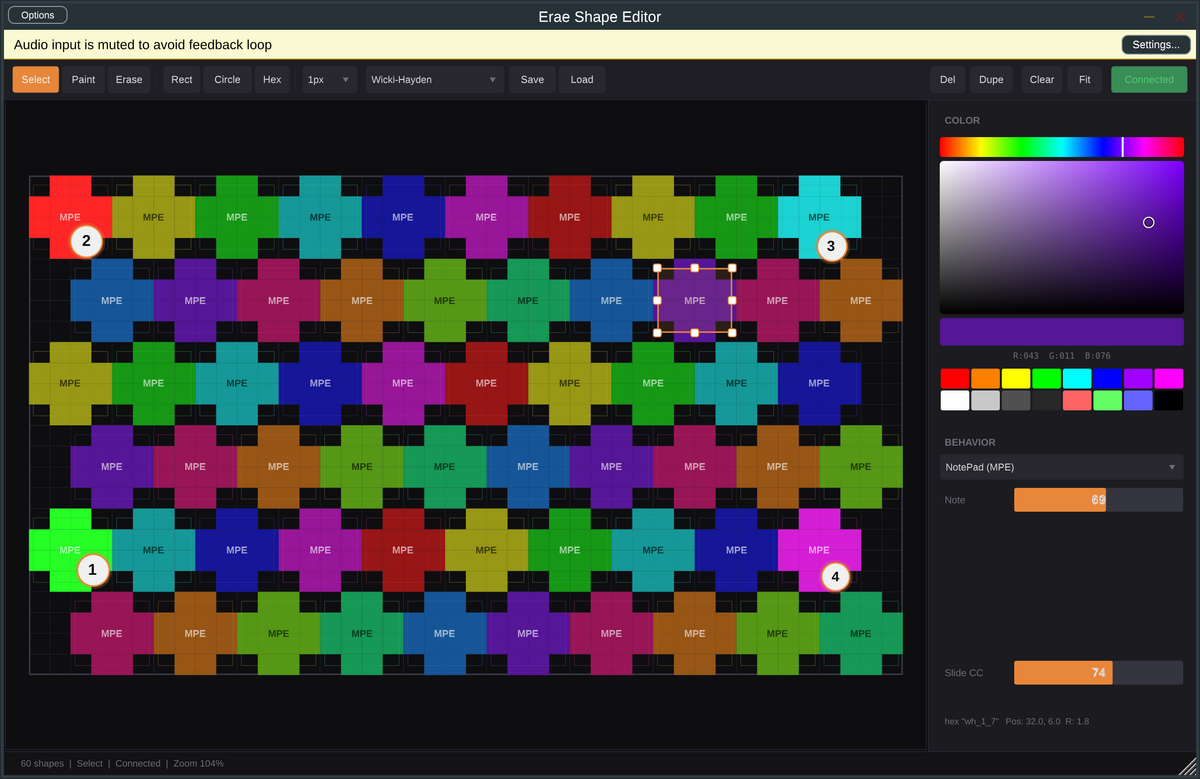
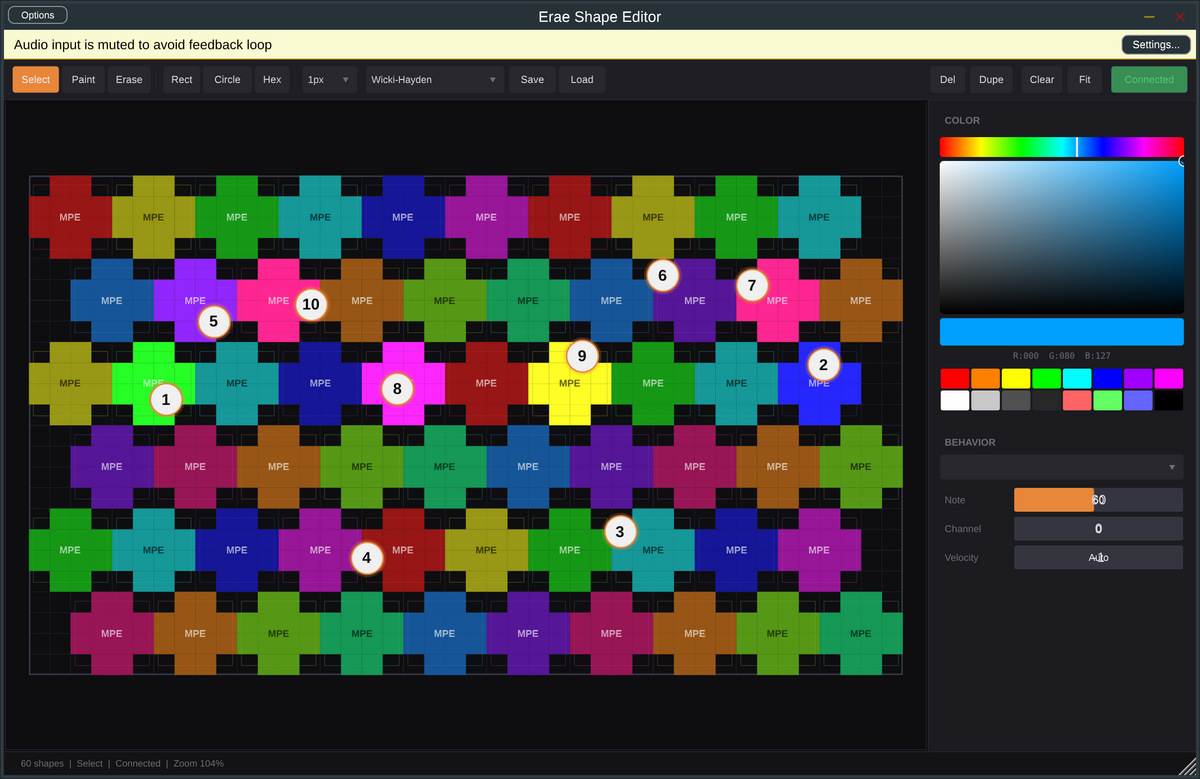
Add 14-bit hi-res CC mode and auto-assign unique notes/CCs
14-bit CC: Fader and XY Controller behaviors can now send paired
MSB+LSB CC messages (CC N + CC N+32) for 16384 steps of resolution.
Toggle "Hi-Res 14b" in the property panel. CC range clamps to 0-31
when enabled.

Auto-assign: New shapes automatically get unique note/CC numbers so
they don't clash. Duplicated shapes also get the next available value.
Switching behavior type auto-assigns an unused note or CC.

Restores the 10-finger multitouch screenshot.

diff --git a/Source/UI/PropertyPanel.cpp b/Source/UI/PropertyPanel.cpp
@@ -23,7 +23,8 @@ static void styleSlider(juce::Slider& slider, double min, double max, double def
     slider.setColour(juce::Slider::textBoxTextColourId, Theme::Colors::Text);
 }
 
-PropertyPanel::PropertyPanel()
+PropertyPanel::PropertyPanel(Layout& layout)
+    : layout_(layout)
 {
     styleLabel(behaviorLabel_, true);
     addAndMakeVisible(behaviorLabel_);
@@ -87,6 +88,12 @@ PropertyPanel::PropertyPanel()
     horizToggle_.addListener(this);
     addAndMakeVisible(horizLabel_);
     addAndMakeVisible(horizToggle_);
+
+    // Hi-Res 14-bit toggle (for Fader and XY Controller)
+    styleLabel(highresLabel_);
+    highresToggle_.addListener(this);
+    addAndMakeVisible(highresLabel_);
+    addAndMakeVisible(highresToggle_);
 
     // Slide CC slider (0-127, default 74 for MPE Y-axis)
     styleLabel(slideCCLabel_);
@@ -179,6 +186,14 @@ void PropertyPanel::resized()
         area.removeFromTop(3);
     }
 
+    // Hi-Res 14-bit toggle row
+    {
+        auto row = area.removeFromTop(rowH);
+        highresLabel_.setBounds(row.removeFromLeft(labelW));
+        highresToggle_.setBounds(row.removeFromLeft(rowH));
+        area.removeFromTop(3);
+    }
+
     // MPE hint
     mpeHint_.setBounds(area.removeFromTop(16));
     area.removeFromTop(gap + 2);
@@ -239,6 +254,13 @@ void PropertyPanel::loadShape(Shape* shape)
     ccYSlider_.setValue(getP("cc_y", 2), juce::dontSendNotification);
     slideCCSlider_.setValue(getP("slide_cc", 74), juce::dontSendNotification);
     horizToggle_.setToggleState(getPBool("horizontal", false), juce::dontSendNotification);
+    bool hr = getPBool("highres", false);
+    highresToggle_.setToggleState(hr, juce::dontSendNotification);
+    // Set CC slider ranges based on hi-res state
+    double maxCC = hr ? 31.0 : 127.0;
+    ccSlider_.setRange(0, maxCC, 1.0);
+    ccXSlider_.setRange(0, maxCC, 1.0);
+    ccYSlider_.setRange(0, maxCC, 1.0);
 
     // Visual style
     auto vstyle = visualStyleFromString(shape->visualStyle);
@@ -285,6 +307,22 @@ void PropertyPanel::comboBoxChanged(juce::ComboBox* box)
             default: return;
         }
         currentShape_->behavior = behaviorToString(btype);
+
+        // Auto-assign unique note/CC for the new behavior type
+        if (btype == BehaviorType::Trigger || btype == BehaviorType::Momentary || btype == BehaviorType::NotePad) {
+            int note = layout_.nextAvailableNote(60);
+            noteSlider_.setValue(note, juce::dontSendNotification);
+        }
+        if (btype == BehaviorType::Fader) {
+            int cc = layout_.nextAvailableCC(1);
+            ccSlider_.setValue(cc, juce::dontSendNotification);
+        }
+        if (btype == BehaviorType::XYController) {
+            int ccX = layout_.nextAvailableCC(1);
+            ccXSlider_.setValue(ccX, juce::dontSendNotification);
+            int ccY = layout_.nextAvailableCC(ccX + 1);
+            ccYSlider_.setValue(ccY, juce::dontSendNotification);
+        }
     }
     else if (box == &visualBox_) {
         int id = visualBox_.getSelectedId();
@@ -315,9 +353,18 @@ void PropertyPanel::sliderValueChanged(juce::Slider*)
     notifyListeners();
 }
 
-void PropertyPanel::buttonClicked(juce::Button*)
+void PropertyPanel::buttonClicked(juce::Button* button)
 {
     if (loading_ || !currentShape_) return;
+
+    // When hi-res toggled, update CC slider ranges (0-31 for 14-bit, 0-127 for 7-bit)
+    if (button == &highresToggle_) {
+        double maxCC = highresToggle_.getToggleState() ? 31.0 : 127.0;
+        ccSlider_.setRange(0, maxCC, 1.0);
+        ccXSlider_.setRange(0, maxCC, 1.0);
+        ccYSlider_.setRange(0, maxCC, 1.0);
+    }
+
     writeParamsToShape();
     notifyListeners();
 }
@@ -332,6 +379,7 @@ void PropertyPanel::updateVisibility()
     bool showCC       = (btype == BehaviorType::Fader);
     bool showCCXY     = (btype == BehaviorType::XYController);
     bool showHoriz    = (btype == BehaviorType::Fader);
+    bool showHighres  = (btype == BehaviorType::Fader || btype == BehaviorType::XYController);
     bool showSlideCC  = (btype == BehaviorType::NotePad);
     bool showMPEHint  = (btype == BehaviorType::NotePad);
 
@@ -349,6 +397,8 @@ void PropertyPanel::updateVisibility()
     ccYSlider_.setVisible(showCCXY);
     horizLabel_.setVisible(showHoriz);
     horizToggle_.setVisible(showHoriz);
+    highresLabel_.setVisible(showHighres);
+    highresToggle_.setVisible(showHighres);
     slideCCLabel_.setVisible(showSlideCC);
     slideCCSlider_.setVisible(showSlideCC);
     mpeHint_.setVisible(showMPEHint);
@@ -386,16 +436,24 @@ void PropertyPanel::writeParamsToShape()
             obj->setProperty("slide_cc", (int)slideCCSlider_.getValue());
             // No channel — MPE allocates dynamically via MPEAllocator
             break;
-        case BehaviorType::XYController:
-            obj->setProperty("cc_x", (int)ccXSlider_.getValue());
-            obj->setProperty("cc_y", (int)ccYSlider_.getValue());
+        case BehaviorType::XYController: {
+            bool hr = highresToggle_.getToggleState();
+            int maxCC = hr ? 31 : 127;
+            obj->setProperty("cc_x", juce::jlimit(0, maxCC, (int)ccXSlider_.getValue()));
+            obj->setProperty("cc_y", juce::jlimit(0, maxCC, (int)ccYSlider_.getValue()));
             obj->setProperty("channel", (int)channelSlider_.getValue());
+            obj->setProperty("highres", hr);
             break;
-        case BehaviorType::Fader:
-            obj->setProperty("cc", (int)ccSlider_.getValue());
+        }
+        case BehaviorType::Fader: {
+            bool hr = highresToggle_.getToggleState();
+            int maxCC = hr ? 31 : 127;
+            obj->setProperty("cc", juce::jlimit(0, maxCC, (int)ccSlider_.getValue()));
             obj->setProperty("channel", (int)channelSlider_.getValue());
             obj->setProperty("horizontal", horizToggle_.getToggleState());
+            obj->setProperty("highres", hr);
             break;
+        }
     }
 
     currentShape_->behaviorParams = juce::var(obj);

diff --git a/Source/UI/GridCanvas.cpp b/Source/UI/GridCanvas.cpp
@@ -72,6 +72,27 @@ void GridCanvas::duplicateSelected()
     dup->id = nextShapeId();
     dup->x += 1.0f;
     dup->y += 1.0f;
+
+    // Auto-assign unique note/CC so duplicates don't clash
+    auto btype = behaviorFromString(dup->behavior);
+    auto* obj = dup->behaviorParams.getDynamicObject();
+    if (obj) {
+        if (btype == BehaviorType::Trigger || btype == BehaviorType::Momentary || btype == BehaviorType::NotePad) {
+            int oldNote = obj->hasProperty("note") ? (int)obj->getProperty("note") : 60;
+            obj->setProperty("note", layout_.nextAvailableNote(oldNote + 1));
+        }
+        if (btype == BehaviorType::Fader) {
+            int oldCC = obj->hasProperty("cc") ? (int)obj->getProperty("cc") : 1;
+            obj->setProperty("cc", layout_.nextAvailableCC(oldCC + 1));
+        }
+        if (btype == BehaviorType::XYController) {
+            int oldX = obj->hasProperty("cc_x") ? (int)obj->getProperty("cc_x") : 1;
+            int newX = layout_.nextAvailableCC(oldX + 1);
+            obj->setProperty("cc_x", newX);
+            obj->setProperty("cc_y", layout_.nextAvailableCC(newX + 1));
+        }
+    }
+
     auto newId = dup->id;
     layout_.addShape(std::move(dup));
     setSelectedId(newId);
@@ -168,6 +189,11 @@ void GridCanvas::paintPixel(int gx, int gy)
     shape->color = paintColor_;
     shape->colorActive = brighten(paintColor_);
     shape->behavior = "trigger";
+    auto* obj = new juce::DynamicObject();
+    obj->setProperty("note", layout_.nextAvailableNote(60));
+    obj->setProperty("channel", 0);
+    obj->setProperty("velocity", -1);
+    shape->behaviorParams = juce::var(obj);
     layout_.addShape(std::move(shape));
 }
 
@@ -275,6 +301,12 @@ void GridCanvas::finishCreation()
         shape->color = paintColor_;
         shape->colorActive = brighten(paintColor_);
         shape->behavior = "trigger";
+        // Auto-assign unique note so shapes don't clash
+        auto* obj = new juce::DynamicObject();
+        obj->setProperty("note", layout_.nextAvailableNote(60));
+        obj->setProperty("channel", 0);
+        obj->setProperty("velocity", -1);
+        shape->behaviorParams = juce::var(obj);
         layout_.addShape(std::move(shape));
         setSelectedId(id);
     }

diff --git a/Source/Model/Layout.cpp b/Source/Model/Layout.cpp
@@ -128,6 +128,53 @@ juce::var Layout::toVar() const
     return juce::var(obj);
 }
 
+int Layout::nextAvailableNote(int startFrom) const
+{
+    std::set<int> usedNotes;
+    for (auto& s : shapes_) {
+        auto btype = behaviorFromString(s->behavior);
+        if (btype == BehaviorType::Trigger || btype == BehaviorType::Momentary || btype == BehaviorType::NotePad) {
+            if (auto* obj = s->behaviorParams.getDynamicObject())
+                if (obj->hasProperty("note"))
+                    usedNotes.insert((int)obj->getProperty("note"));
+        }
+    }
+    // Search from startFrom upward, wrapping around 0-127
+    for (int i = 0; i < 128; ++i) {
+        int candidate = (startFrom + i) % 128;
+        if (usedNotes.find(candidate) == usedNotes.end())
+            return candidate;
+    }
+    return startFrom; // all 128 used, just return startFrom
+}
+
+int Layout::nextAvailableCC(int startFrom) const
+{
+    std::set<int> usedCCs;
+    for (auto& s : shapes_) {
+        auto btype = behaviorFromString(s->behavior);
+        if (btype == BehaviorType::Fader) {
+            if (auto* obj = s->behaviorParams.getDynamicObject())
+                if (obj->hasProperty("cc"))
+                    usedCCs.insert((int)obj->getProperty("cc"));
+        }
+        if (btype == BehaviorType::XYController) {
+            if (auto* obj = s->behaviorParams.getDynamicObject()) {
+                if (obj->hasProperty("cc_x"))
+                    usedCCs.insert((int)obj->getProperty("cc_x"));
+                if (obj->hasProperty("cc_y"))
+                    usedCCs.insert((int)obj->getProperty("cc_y"));
+            }
+        }
+    }
+    for (int i = 0; i < 127; ++i) {
+        int candidate = ((startFrom - 1 + i) % 127) + 1; // range 1-127
+        if (usedCCs.find(candidate) == usedCCs.end())
+            return candidate;
+    }
+    return startFrom;
+}
+
 void Layout::sortByZOrder()
 {
     std::stable_sort(shapes_.begin(), shapes_.end(),

diff --git a/Source/MIDI/BehaviorEngine.cpp b/Source/MIDI/BehaviorEngine.cpp
@@ -150,11 +150,17 @@ void BehaviorEngine::handleXY(const FingerEvent& event, Shape* shape, FingerStat
     int ccX = getParam(*shape, "cc_x", 1);
     int ccY = getParam(*shape, "cc_y", 2);
     int channel = getParam(*shape, "channel", 0);
+    bool highres = getParamBool(*shape, "highres", false);
 
     if (event.action == SysEx::ACTION_DOWN || event.action == SysEx::ACTION_MOVE) {
         auto [nx, ny] = normalizeInShape(fs.x, fs.y, *shape);
-        midi_.cc(channel, ccX, (int)(nx * 127.0f));
-        midi_.cc(channel, ccY, (int)(ny * 127.0f));
+        if (highres) {
+            midi_.cc14bit(channel, ccX, (int)(nx * 16383.0f));
+            midi_.cc14bit(channel, ccY, (int)(ny * 16383.0f));
+        } else {
+            midi_.cc(channel, ccX, (int)(nx * 127.0f));
+            midi_.cc(channel, ccY, (int)(ny * 127.0f));
+        }
     }
 }
 
@@ -163,11 +169,16 @@ void BehaviorEngine::handleFader(const FingerEvent& event, Shape* shape, FingerS
     int ccNum = getParam(*shape, "cc", 1);
     int channel = getParam(*shape, "channel", 0);
     bool horizontal = getParamBool(*shape, "horizontal", false);
+    bool highres = getParamBool(*shape, "highres", false);
 
     if (event.action == SysEx::ACTION_DOWN || event.action == SysEx::ACTION_MOVE) {
         auto [nx, ny] = normalizeInShape(fs.x, fs.y, *shape);
         float value = horizontal ? nx : ny;
-        midi_.cc(channel, ccNum, (int)(value * 127.0f));
+        if (highres) {
+            midi_.cc14bit(channel, ccNum, (int)(value * 16383.0f));
+        } else {
+            midi_.cc(channel, ccNum, (int)(value * 127.0f));
+        }
     }
 }
 

diff --git a/Source/UI/PropertyPanel.h b/Source/UI/PropertyPanel.h
@@ -4,6 +4,7 @@
 #include "../Model/Shape.h"
 #include "../Model/Behavior.h"
 #include "../Model/VisualStyle.h"
+#include "../Model/Layout.h"
 #include "Theme.h"
 
 namespace erae {
@@ -19,7 +20,7 @@ public:
         virtual void behaviorChanged(const std::string& shapeId) = 0;
     };
 
-    PropertyPanel();
+    PropertyPanel(Layout& layout);
 
     void paint(juce::Graphics& g) override;
     void resized() override;
@@ -41,6 +42,7 @@ private:
     void writeParamsToShape();
     void notifyListeners();
 
+    Layout& layout_;
     Shape* currentShape_ = nullptr;
     bool loading_ = false;
 
@@ -61,6 +63,8 @@ private:
     juce::Slider ccYSlider_;
     juce::Label horizLabel_     {"", "Horizontal"};
     juce::ToggleButton horizToggle_;
+    juce::Label highresLabel_   {"", "Hi-Res 14b"};
+    juce::ToggleButton highresToggle_;
     juce::Label slideCCLabel_   {"", "Slide CC"};
     juce::Slider slideCCSlider_;
 

diff --git a/Source/MIDI/EraeMidiOut.cpp b/Source/MIDI/EraeMidiOut.cpp
@@ -26,6 +26,14 @@ void EraeMidiOut::cc(int channel, int controller, int value)
     addMessage(juce::MidiMessage::controllerEvent(channel + 1, controller, value));
 }
 
+void EraeMidiOut::cc14bit(int channel, int controller, int value14)
+{
+    int msb = (value14 >> 7) & 0x7F;
+    int lsb = value14 & 0x7F;
+    addMessage(juce::MidiMessage::controllerEvent(channel + 1, controller, msb));
+    addMessage(juce::MidiMessage::controllerEvent(channel + 1, controller + 32, lsb));
+}
+
 void EraeMidiOut::pressure(int channel, int value)
 {
     addMessage(juce::MidiMessage::channelPressureChange(channel + 1, value));

diff --git a/Source/Model/Layout.h b/Source/Model/Layout.h
@@ -1,9 +1,11 @@
 #pragma once
 
 #include "Shape.h"
+#include "Behavior.h"
 #include <vector>
 #include <memory>
 #include <algorithm>
+#include <set>
 
 namespace erae {
 
@@ -50,6 +52,10 @@ public:
 
     int getGridWidth() const { return gridWidth; }
     int getGridHeight() const { return gridHeight; }
+
+    // Auto-assignment helpers — find next unused note/CC across all shapes
+    int nextAvailableNote(int startFrom = 60) const;
+    int nextAvailableCC(int startFrom = 1) const;
 
 private:
     void sortByZOrder();

diff --git a/Source/MIDI/EraeMidiOut.h b/Source/MIDI/EraeMidiOut.h
@@ -14,6 +14,7 @@ public:
     void noteOn(int channel, int note, int velocity);
     void noteOff(int channel, int note);
     void cc(int channel, int controller, int value);
+    void cc14bit(int channel, int controller, int value14); // sends CC N (MSB) + CC N+32 (LSB), value 0-16383
     void pressure(int channel, int value);
     void pitchBend(int channel, int value); // 0-16383, center=8192
 

diff --git a/Source/PluginEditor.cpp b/Source/PluginEditor.cpp
@@ -6,7 +6,8 @@ namespace erae {
 EraeEditor::EraeEditor(EraeProcessor& p)
     : AudioProcessorEditor(p),
       processor_(p),
-      canvas_(p.getLayout())
+      canvas_(p.getLayout()),
+      propertyPanel_(p.getLayout())
 {
     setLookAndFeel(&lookAndFeel_);
 
